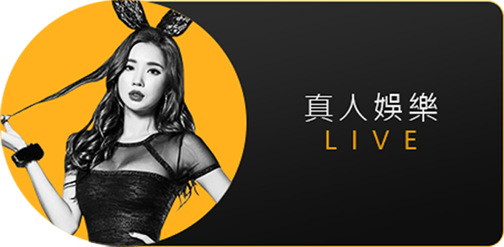
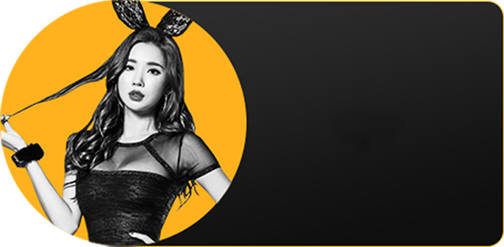
111-12-06

Changed region(s): [[0.5952, 0.3684, 0.8929, 0.6235], [0.625, 0.5101, 0.7143, 0.6235]]

diff --git a/index.html b/index.html
@@ -68,18 +68,78 @@
         </div>
     </div>
     <div class="homeCenter">
-        <div class="gameType"></div>
-        <div class="gameType"></div>
-        <div class="gameType"></div>
-        <div class="gameType"></div>
-        <div class="gameType"></div>
-        <div class="gameType"></div>
-        <div class="gameType"></div>
-        <div class="gameType"></div>
-        <div class="gameType"></div>
-        <div class="gameType"></div>
-        <div class="gameType"></div>
-        <div class="gameType"></div>
+        <div class="gameType">
+            <div>
+                <p class="bigTitle">真人娛樂</p>
+                <p class="smallTitle">LIVE</p>
+            </div>
+        </div>
+        <div class="gameType">
+            <div>
+                <p class="bigTitle">棋牌遊戲</p>
+                <p class="smallTitle">POKER</p>
+            </div>
+        </div>
+        <div class="gameType">
+            <div>
+                <p class="bigTitle">真人娛樂</p>
+                <p class="smallTitle">LIVE</p>
+            </div>
+        </div>
+        <div class="gameType">
+            <div>
+                <p class="bigTitle">棋牌遊戲</p>
+                <p class="smallTitle">POKER</p>
+            </div>
+        </div>
+        <div class="gameType">
+            <div>
+                <p class="bigTitle">真人娛樂</p>
+                <p class="smallTitle">LIVE</p>
+            </div>
+        </div>
+        <div class="gameType">
+            <div>
+                <p class="bigTitle">棋牌遊戲</p>
+                <p class="smallTitle">POKER</p>
+            </div>
+        </div>
+        <div class="gameType">
+            <div>
+                <p class="bigTitle">真人娛樂</p>
+                <p class="smallTitle">LIVE</p>
+            </div>
+        </div>
+        <div class="gameType">
+            <div>
+                <p class="bigTitle">棋牌遊戲</p>
+                <p class="smallTitle">POKER</p>
+            </div>
+        </div>
+        <div class="gameType">
+            <div>
+                <p class="bigTitle">真人娛樂</p>
+                <p class="smallTitle">LIVE</p>
+            </div>
+        </div>
+        <div class="gameType">
+            <div>
+                <p class="bigTitle">棋牌遊戲</p>
+                <p class="smallTitle">POKER</p>
+            </div>
+        </div>
+        <div class="gameType">
+            <div>
+                <p class="bigTitle">真人娛樂</p>
+                <p class="smallTitle">LIVE</p>
+            </div>
+        </div>
+        <div class="gameType">
+            <div>
+                <p class="bigTitle">棋牌遊戲</p>
+                <p class="smallTitle">POKER</p>
+            </div>
+        </div>
     </div>
     </main>
     <footer>

diff --git a/scss/_homeCenter.scss b/scss/_homeCenter.scss
@@ -69,5 +69,37 @@
     .gameType {
         width: 100%;
         height: 26vw;
+
+        div {
+            padding: 2vw;
+
+            p {
+                text-align: center;
+    
+                &.bigTitle {
+                    color: $mainFONT;
+                    font-size: 3.6vw;
+                    margin-bottom: 1vw;
+                }
+    
+                &.smallTitle {
+                    color: $mainColor;
+                    font-size: 1vw;
+                    letter-spacing: 1vw;
+                }
+            }
+        }
+       
+
+        &:nth-child(odd){
+            padding: 8vw 0vw 8vw 20vw;
+        }
+        &:nth-child(even){
+            padding: 8vw 20vw 8vw 0vw;
+
+            .smallTitle {
+                margin-left: 1vw;
+            }
+        }
     }
 }

diff --git a/css/style.css b/css/style.css
@@ -379,6 +379,31 @@ html .homeCenter .gameType {
   width: 100%;
   height: 26vw;
 }
+html .homeCenter .gameType div {
+  padding: 2vw;
+}
+html .homeCenter .gameType div p {
+  text-align: center;
+}
+html .homeCenter .gameType div p.bigTitle {
+  color: #ffffff;
+  font-size: 3.6vw;
+  margin-bottom: 1vw;
+}
+html .homeCenter .gameType div p.smallTitle {
+  color: #ffb21d;
+  font-size: 1vw;
+  letter-spacing: 1vw;
+}
+html .homeCenter .gameType:nth-child(odd) {
+  padding: 8vw 0vw 8vw 20vw;
+}
+html .homeCenter .gameType:nth-child(even) {
+  padding: 8vw 20vw 8vw 0vw;
+}
+html .homeCenter .gameType:nth-child(even) .smallTitle {
+  margin-left: 1vw;
+}
 html footer {
   width: 100%;
   height: 18vw;

diff --git a/js/js.js b/js/js.js
@@ -11,4 +11,10 @@ $(function(){
         slidesPerView: 1,
         spaceBetween: 10,
     })
+
+    // footer
+    $("footer ul li").click(function(){
+        $(this).toggleClass("active");
+        $(this).siblings().removeClass("active");
+    })
 })
